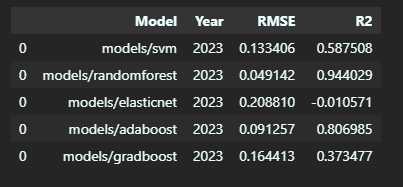
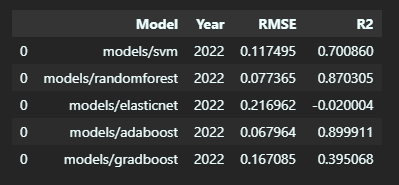
Completed README

diff --git a/README.md b/README.md
@@ -1,6 +1,10 @@
 # Predicting the NBA MVP
 In this project, we will scrape NBA player data from [Basketball Reference](www.basketball-reference.com) and use it to build a model that will be able to accurately predict the MVP of each season. Basketball Reference has well-structured and formatted historical data on the NBA up to the present.
-#
+
+## Objectives
+* How can we use machine learning to estimate what the most important factors are to winning an MVP race for a certain season?
+* What other external factors are to be considered when deciding an MVP?
+
 ## Requirements
 This project is done with Python 3.9+ with the following additionally downloaded packages:
 * beautifulsoup4
@@ -10,7 +14,7 @@ This project is done with Python 3.9+ with the following additionally downloaded
 * matplotlib
 
 These packages can be downloaded in ~/env/requirements.txt for pip or ~/env/nba.yml to create a conda environment.
-#
+
 ## Scraping Data
 We will focus on three specific types of pages when scraping:
 * The information on the MVP race of each season
@@ -21,7 +25,7 @@ We will focus on three specific types of pages when scraping:
 <br />
 
 Downloading simple HTML websites were done using the `requests` package. However, we ran into a problem while scraping the player stats webpages using requests, as it did not collect the HTML content for all the players. Thus, we used the `selenium` package to download the content from these pages. After collecting this content, we used `beautifulsoup4` package to scrape the targeted tables and store them into csv files.
-#
+
 ## Data Treatment
 After obtaining our data for the mvp race, player statistics, and team records, we are ready to clean it in preparation for machine learning.
 
@@ -48,7 +52,7 @@ There is a minimum requirement for each stat that a player has to reach in order
 * One one player, Kareem Abdul Jabbar, in NBA history has won the MVP while not making the playoffs
 
 Using these minimums, we cut down the amount of players to 30 players per season.
-#
+
 ## Modeling
 Now that our data is ready for machine learning, we can try to select various models to find a suitable regression model for our data.
 
@@ -63,24 +67,49 @@ To verify and check the predictive power of our regression models, we will be us
 
 ### Predicting and verifying the 2022 MVP
 After training each model on data where we leave out the 2021-2022 season, we get the following metrics.
+
 ![Alt text](images/2022_metrics.png)
+
+We can see that our two best models are AdaBoost and RandomForest with the highest R2 scores and lowest RMSE respectively, with SVM performing decently as well.
+
+We also display the MVP Shares, which is the amount of MVP votes that each player received divided by the total number of votes. The image describes the three players with the highest number of MVP votes, with the actual MVP share and comparing it with the predicted MVP shares of each model.
+
 ![Alt text](images/2022_pred.png)
+
 In almost every model except ElasticNet, we accurately predicted that the NBA MVP is Nikola Jokic. More interestingly, we can also see that our model consistently predicts Giannis Antetokounmpo to be higher in the MVP race than Joel Embiid.
 
 ### Predicting and verifying the 2023 MVP
 After training each model on data where we leave out the 2022-2023 season, we get the following metrics.
+
 ![Alt text](2023_metrics.png)
+
+We can see that the best performing model for predicting 2023 is AdaBoost with the highest R2 score and lower RMSE by a large margin.
+
+Similarly to above, we display the MVP shares for the top three performing players.
+
 ![Alt text](images/2023_pred.png)
+
 Just like the 2022 predictions, our models predict that Nikola Jokic wins the MVP race for 2023. However, this is incorrect, as we can see that Joel Embiid wins the MVP race by a landslide. Instead, Joel Embiid is mostly predicted to be at second place in the MVP race while Giannis moves down to third.
 
+## Analysis and External Factors
+Consistently through both the years that were predicted, we found that our worst model was ElasticNet. The model was unable to learn the patterns behind the stats and MVP shares, thus resulting in a model that predicts the same MVP share accross all players.
 
+The most impactful statistics of a player are their Player Efficiency Rating (PER) and their WinShare (WS), meaning these stats contribute the most to the predicted MVP share of a player.
 
+For 2022, our best performing models were AdaBoost and RandomForest. Additionally, most of our models in 2022 were able to predict correctly that Nikola Jokic wins the MVP race. However, it mostly incorrectly predicted that Giannis Antetokounmpo comes in second place.
 
+For 2023, all of our models predicted that Jokic wins the MVP race. However, Joel Embiid wins the MVP race by a landslide this year.
 
+### How can this be?
+#### Voter Fatigue
+Nikola Jokic won the MVP race two years in the row, in the 2021 season and the 2022 season, and lost the MVP race to Joel Embiid in 2023. One reason why this could've happened is voter fatigue. This refers to the idea that awards voters tend to favor newer candidates than ones that have already won and established themselves. This has happened many times throughout the history of the NBA, such as Derrick Rose winning the MVP over Lebron James in 2011, and Karl Malone winning the MVP over Michael Jordan in 1997.
 
+#### Narratives
+Although statistics are important in defining the performance of a player, a narrative is just as important. It spews ideas and opinions that aren't necessarily backed up with facts or data. What kind of adversities did a player face and how did he overcome it? How important is a player to his team? Does a player need a superteam to win?
 
+These are some examples of popular narratives that surround the NBA's superstars in the present. However, a new narrative arised in the 2023 season with the rise of Embiid and Kendrick Perkins, a basketball analyst.
 
+During most of the 2023 season, Nikola Jokic was projected to be the favorite for winning his third consecutive MVP trophy. Perkins then accused MVP Voters of racism, for voting for a Caucasian male for MVP instead of someone of colored skin, such as Joel Embiid. The comment seemed to completely sway the MVP race into Embiid's favor, with Joel Embiid winning the race by a landslide.
 
-
-
-
+## Conclusion
+The inability to accurately predict some of the outcomes, such as the prediction of Giannis in second place in the 2022 season, and the prediction of the Jokic winning the race in 2023 can be explained by external factors, such as voter fatigue and narratives. As machine learning predictions are entirely dependent on statistics, we are unable to reflect these external factors into our models. Voter fatigue and narratives are factors that cannot be transformed into features that we can predict, so if they are strong factors in the season, we will not be able to accurately predict the MVP of that season, as shown by 2023.
